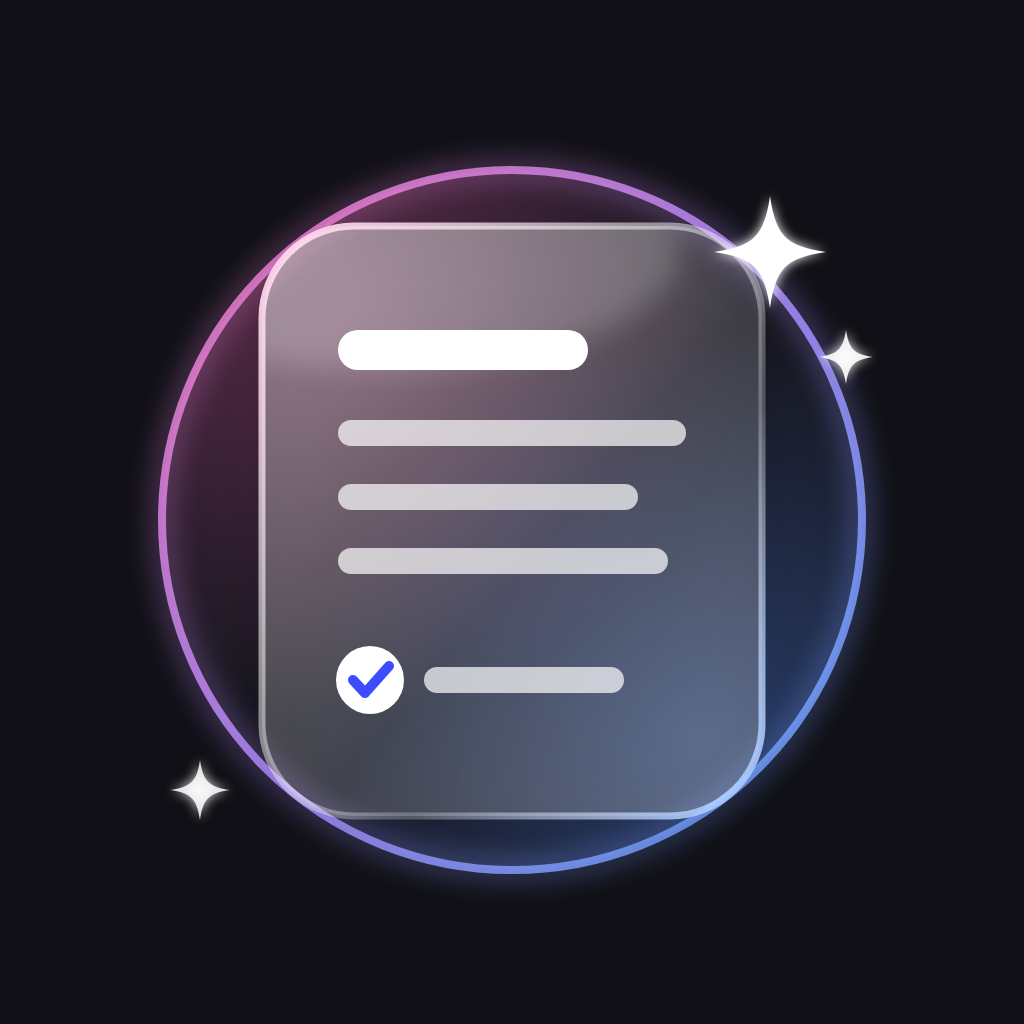
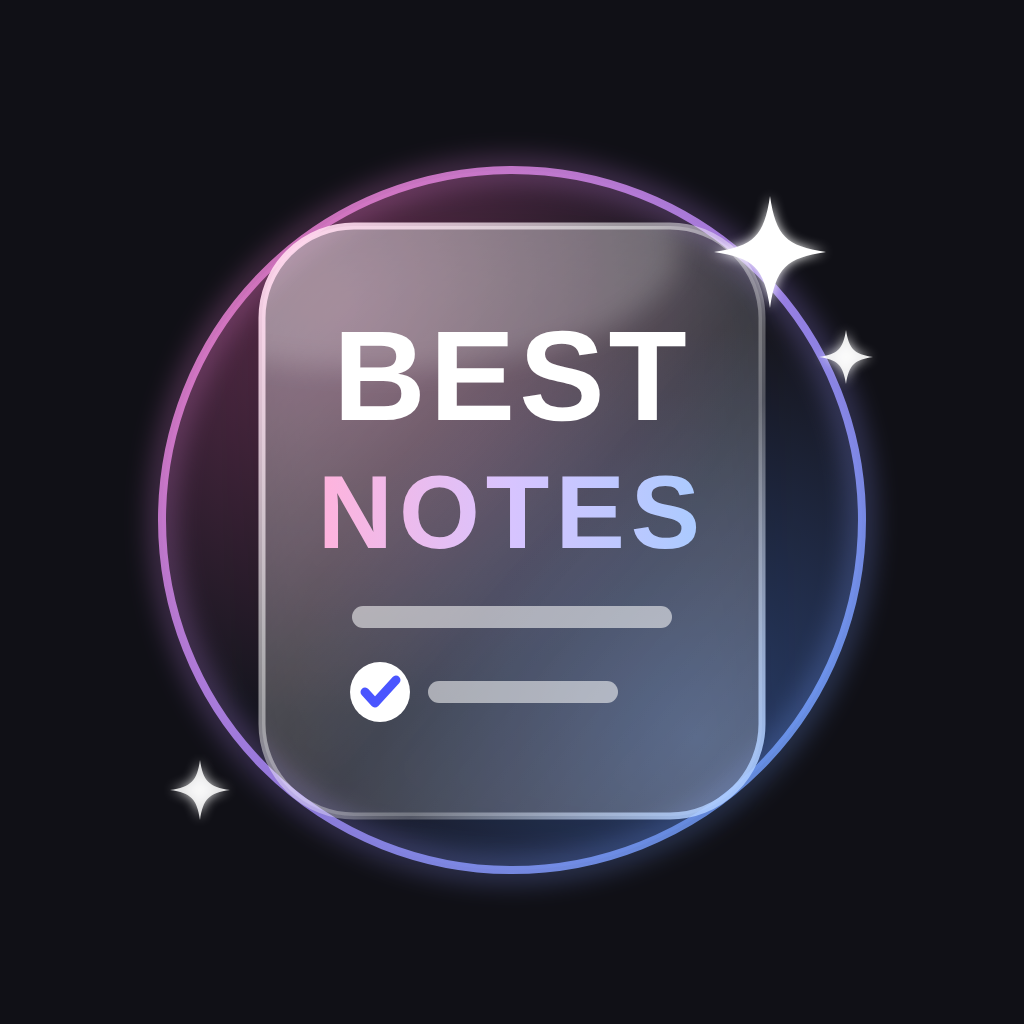
Ícono con el nombre BEST NOTES dentro de la nota; en el menú el nombre sale completo en dos renglones (BEST / NOTES) sin agrandar el panel
Claude-Session: https://claude.ai/code/session_01RHSFq33FxoHnCRmcfyf63B

Changed region(s): [[0.3125, 0.3125, 0.6875, 0.5625], [0.3125, 0.5938, 0.6562, 0.7188]]

diff --git a/icono.js b/icono.js
@@ -1,2 +1,2 @@
 /* icono.js — el ícono de Best Notes (pequeño, para mostrarlo dentro de la app) */
[2 lines of base64/hex data omitted]

diff --git a/App.js b/App.js
@@ -3131,8 +3131,14 @@ function NotesApp() {
              contentContainerStyle={s.sidebarInner} showsVerticalScrollIndicator indicatorStyle="white" persistentScrollbar={false} nestedScrollEnabled>
             <View style={{ flexDirection: 'row', alignItems: 'center', marginBottom: 18, paddingLeft: 6 }}>
               <BackBtn onPress={() => closeMenu()} t={c} />
-              <Image source={{ uri: ICON_URI }} style={{ width: 32, height: 32, borderRadius: 9, marginLeft: 10 }} />
-              <Text maxFontSizeMultiplier={1.3} style={[s.sideTitle, { marginBottom: 0, paddingHorizontal: 10, flex: 1 }]} numberOfLines={1}>{tr('appName')}</Text>
+              <Image source={{ uri: ICON_URI }} style={{ width: 40, height: 40, borderRadius: 11, marginLeft: 10 }} />
+              {/* El nombre en dos renglones: siempre se ve completo sin hacer el panel más ancho */}
+              <View style={{ flex: 1, paddingHorizontal: 10 }}>
+                <Text maxFontSizeMultiplier={1.15} numberOfLines={1} adjustsFontSizeToFit minimumFontScale={0.7}
+                  style={{ color: c.text, fontSize: 19, fontWeight: '900', letterSpacing: 1.5, lineHeight: 21 }}>BEST</Text>
+                <Text maxFontSizeMultiplier={1.15} numberOfLines={1} adjustsFontSizeToFit minimumFontScale={0.7}
+                  style={{ color: c.muted, fontSize: 15, fontWeight: '800', letterSpacing: 3, lineHeight: 18 }}>NOTES</Text>
+              </View>
               <DoneBtn onPress={() => closeMenu()} t={c} />
             </View>
             {/* 📖 Guía de la app: siempre primero, para que se note */}
